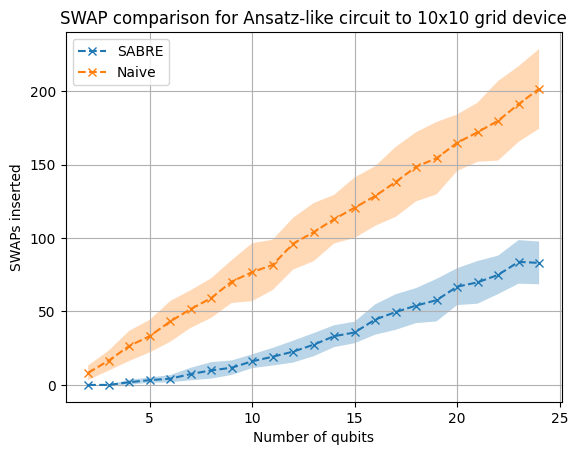
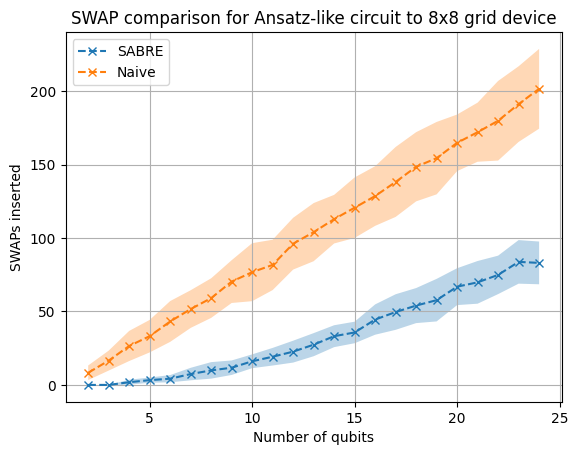
fix title

Changed region(s): [[0.0934, 0.0, 0.9965, 0.0615]]

diff --git a/compare.py b/compare.py
@@ -170,7 +170,7 @@ def post_process(filename, circuit_name):
         alpha=0.3,
     )
 
-    plt.title("SWAP comparison for "+ circuit_name +"-like circuit to 10x10 grid device")
+    plt.title("SWAP comparison for "+ circuit_name +"-like circuit to 8x8 grid device")
     plt.xlabel("Number of qubits")
     plt.ylabel("SWAPs inserted")
     plt.legend()
